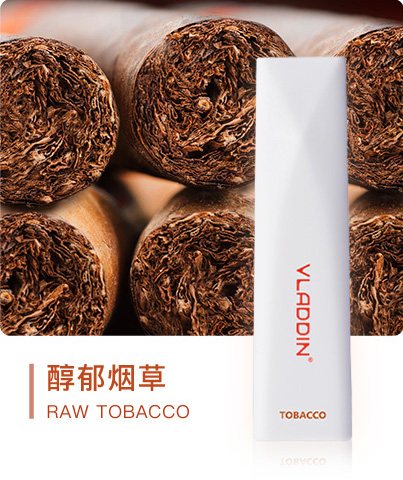
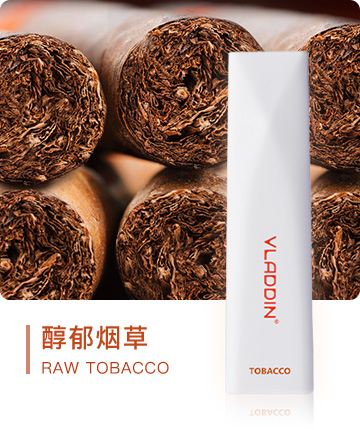
修正描述，增加百度百科跳回地址

diff --git a/public/profile.html b/public/profile.html
@@ -7,7 +7,7 @@
 	<meta name="viewport" content="width=device-width, initial-scale=1, maximum-scale=1">
 	<meta name="baidu-site-verification" content="wDGqTJNDBV" />
 	<meta name="keywords" content="vladdin,瓦拉丁,电子烟,烟弹">
-	<meta name="description" content="Vladdin电子烟中文简称瓦拉丁电子烟,是一家专注烟民健康的电子烟品牌,瓦拉丁电子烟,采用进口烟油预注烟弹,具有容易上手,无焦油,无颗粒物的特性,瓦拉丁电子烟致力为消费者提供更高效、更时尚、更便捷的替烟体验.电话0755-29305911.">
+	<meta name="description" content="Vladdin电子烟中文简称瓦拉丁电子烟,是一家专注烟民健康的电子烟品牌,瓦拉丁电子烟采用进口烟油预注烟弹,更易上手,瓦拉丁电子烟致力为消费者更健康便捷的替烟体验.电话0755-29305911.">
 	<link href="images/favicon.ico?v=61c968d023" rel="shortcut icon" type="image/x-icon">
 	<link rel="stylesheet" type="text/css" href="css/common.min.css?v=9175e57e93">
 </head>
@@ -47,7 +47,7 @@
 <p>2018年3月8日- 4月22日京东众筹，众筹总金额 204万，支持者达8985名</p>
 <p>2018年6月16日登陆京东自营，产品热卖获得客户一致好评</p>
 <p>2018年9月10日天猫招商邀请入驻淘宝天猫商城</p>
-<p>2018年10月10日Vladdin mini发售</p>
+<p>2018年10月10日<a href="http://www.vladdin.net">Vladdin</a> mini发售</p>
 
 </body>
 </html>

diff --git a/src/profile.html b/src/profile.html
@@ -7,7 +7,7 @@
 	<meta name="viewport" content="width=device-width, initial-scale=1, maximum-scale=1">
 	<meta name="baidu-site-verification" content="wDGqTJNDBV" />
 	<meta name="keywords" content="vladdin,瓦拉丁,电子烟,烟弹">
-	<meta name="description" content="Vladdin电子烟中文简称瓦拉丁电子烟,是一家专注烟民健康的电子烟品牌,瓦拉丁电子烟,采用进口烟油预注烟弹,具有容易上手,无焦油,无颗粒物的特性,瓦拉丁电子烟致力为消费者提供更高效、更时尚、更便捷的替烟体验.电话0755-29305911.">
+	<meta name="description" content="Vladdin电子烟中文简称瓦拉丁电子烟,是一家专注烟民健康的电子烟品牌,瓦拉丁电子烟采用进口烟油预注烟弹,更易上手,瓦拉丁电子烟致力为消费者更健康便捷的替烟体验.电话0755-29305911.">
 	<link href="images/favicon.ico?v=61c968d023" rel="shortcut icon" type="image/x-icon">
 	<link rel="stylesheet" type="text/css" href="css/common.min.css?v=9175e57e93">
 </head>
@@ -47,7 +47,7 @@
 <p>2018年3月8日- 4月22日京东众筹，众筹总金额 204万，支持者达8985名</p>
 <p>2018年6月16日登陆京东自营，产品热卖获得客户一致好评</p>
 <p>2018年9月10日天猫招商邀请入驻淘宝天猫商城</p>
-<p>2018年10月10日Vladdin mini发售</p>
+<p>2018年10月10日<a href="http://www.vladdin.net">Vladdin</a> mini发售</p>
 
 </body>
 </html>

diff --git a/public/index.html b/public/index.html
@@ -181,7 +181,7 @@
 			<ul class="small-smoke-list taste-list clearfix">
 				<li>
 					<a href="https://detail.tmall.com/item.htm?spm=a230r.1.14.1.325d5abeo66dWW&id=577560993559&cm_id=140105335569ed55e27b&abbucket=7" target="_blank" title="vladdin瓦拉丁醇郁烟草">
-						<img src="images/small_smoke_raw.jpg?v=cb020e7917" alt="vladdin瓦拉丁醇郁烟草">
+						<img src="images/small_smoke_raw.jpg?v=966fe7296e" alt="vladdin瓦拉丁醇郁烟草">
 					</a>
 				</li>
 				<li>

diff --git a/src/index.html b/src/index.html
@@ -181,7 +181,7 @@
 			<ul class="small-smoke-list taste-list clearfix">
 				<li>
 					<a href="https://detail.tmall.com/item.htm?spm=a230r.1.14.1.325d5abeo66dWW&id=577560993559&cm_id=140105335569ed55e27b&abbucket=7" target="_blank" title="vladdin瓦拉丁醇郁烟草">
-						<img src="images/small_smoke_raw.jpg?v=cb020e7917" alt="vladdin瓦拉丁醇郁烟草">
+						<img src="images/small_smoke_raw.jpg?v=966fe7296e" alt="vladdin瓦拉丁醇郁烟草">
 					</a>
 				</li>
 				<li>
